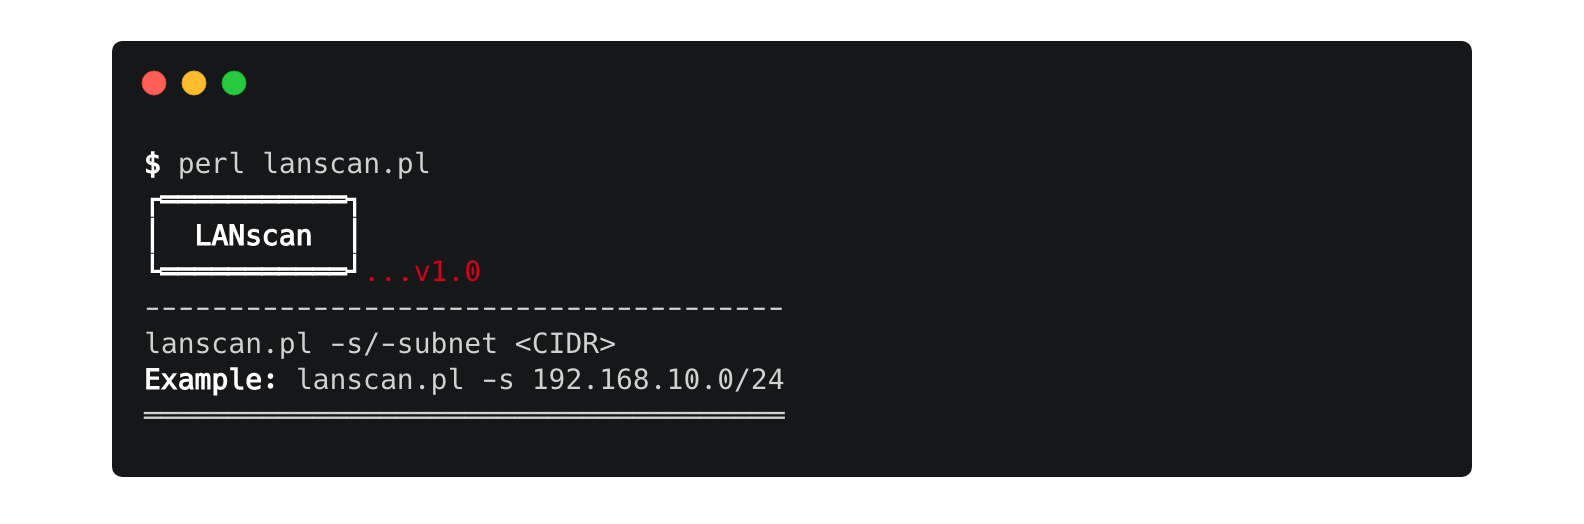
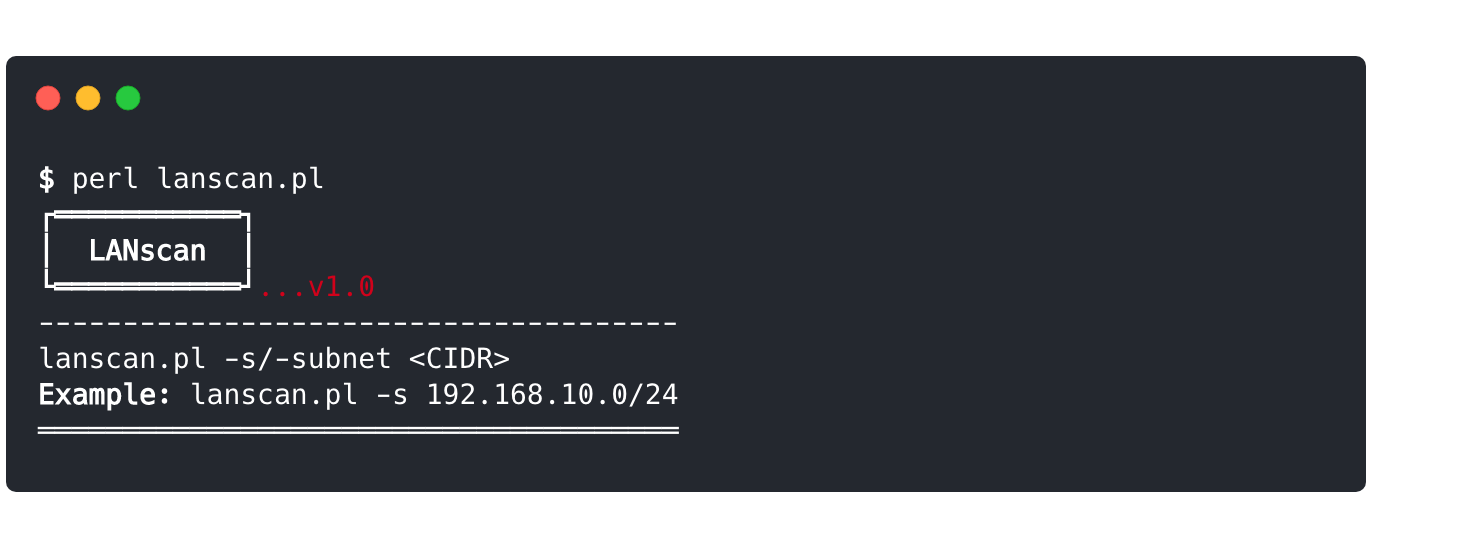
modified README

Changed region(s): [[0.0, 0.0611, 0.9337, 0.916]]

diff --git a/README.md b/README.md
@@ -11,7 +11,9 @@
 
 ### Sample output:
 
-<img src="images/example.png" width="70%">
+<img src="images/preview.svg" width="70%">
+
+<sup><sub>The above results have been altered of course!</sub></sup>
 
 ### Requirements:
 
